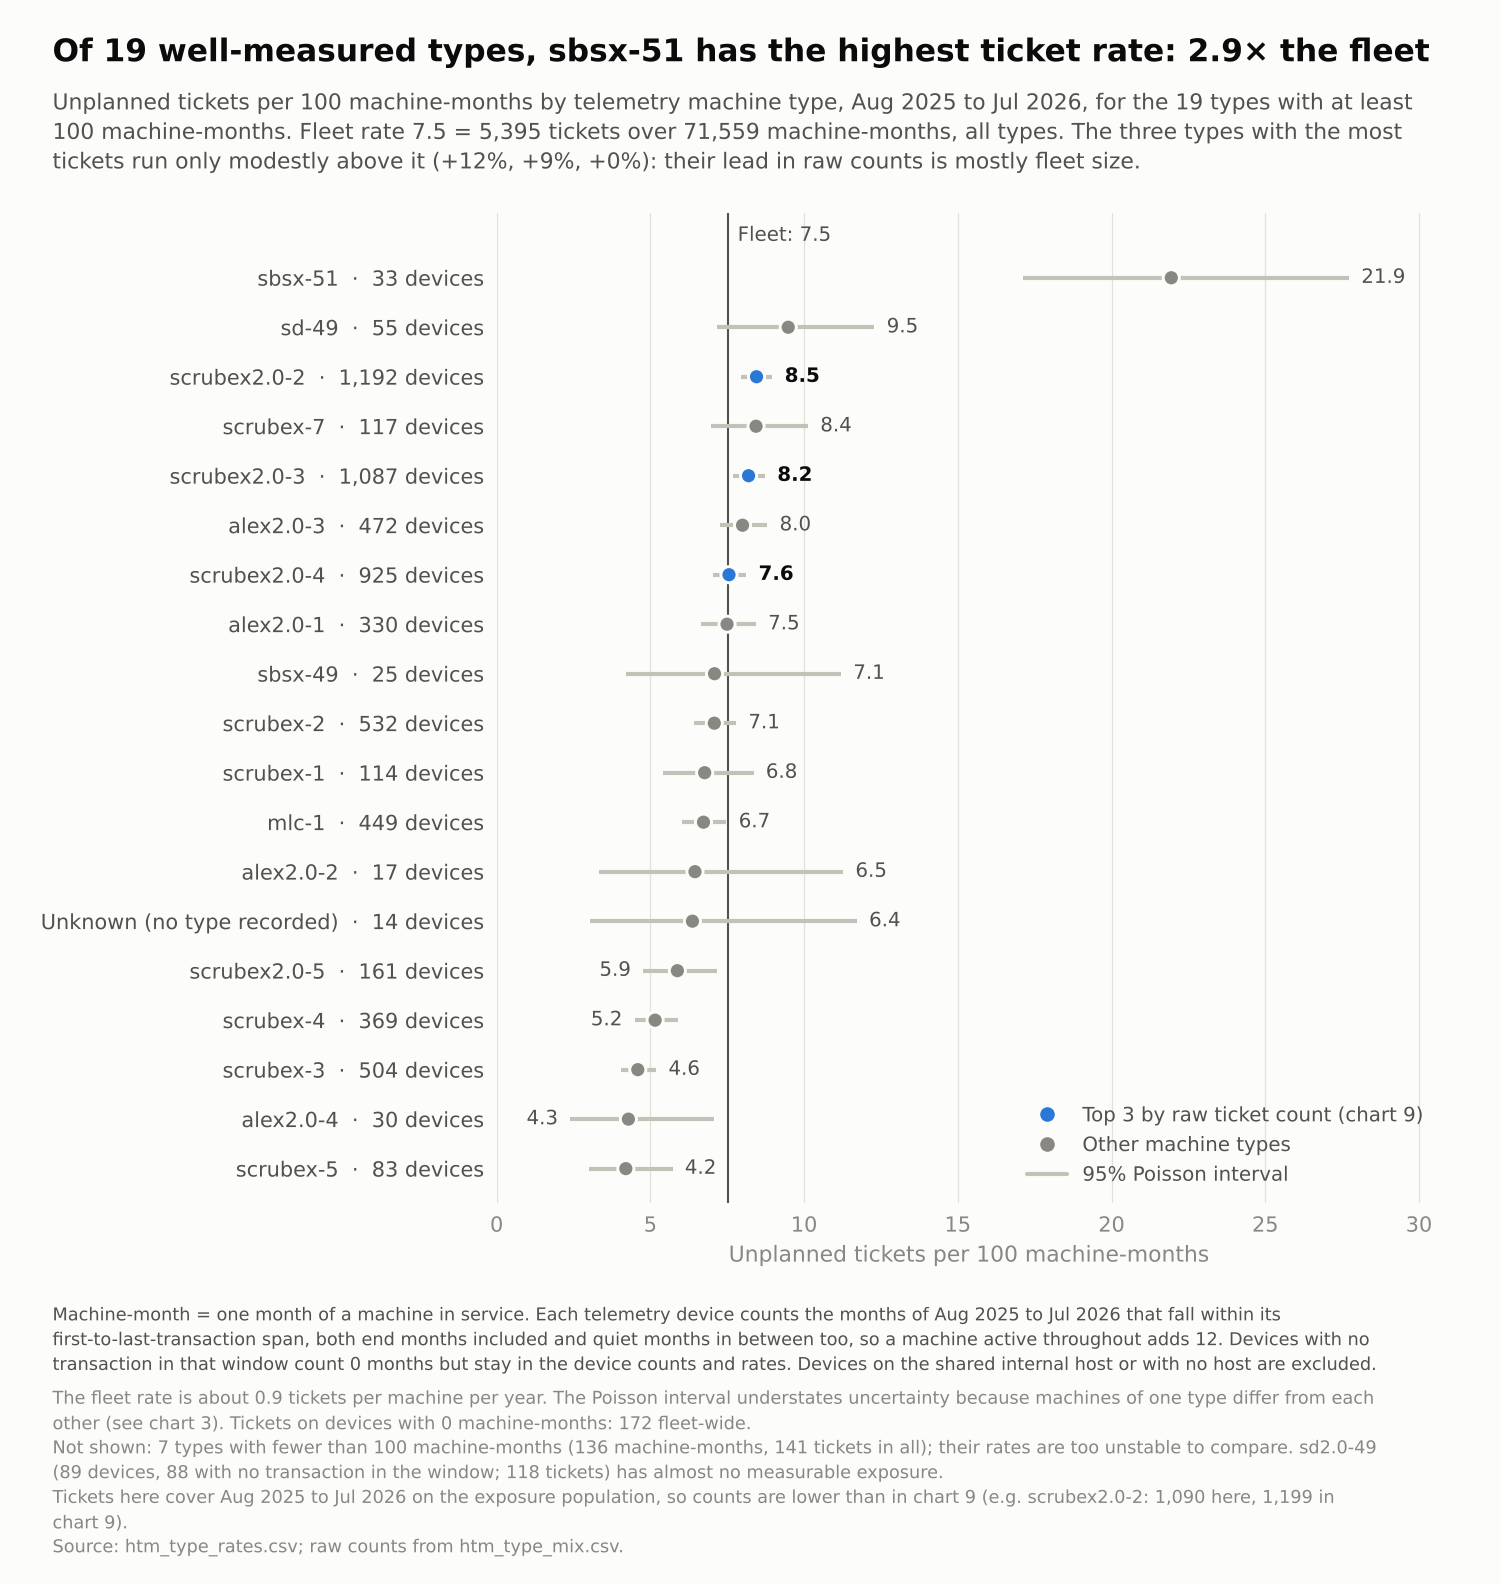
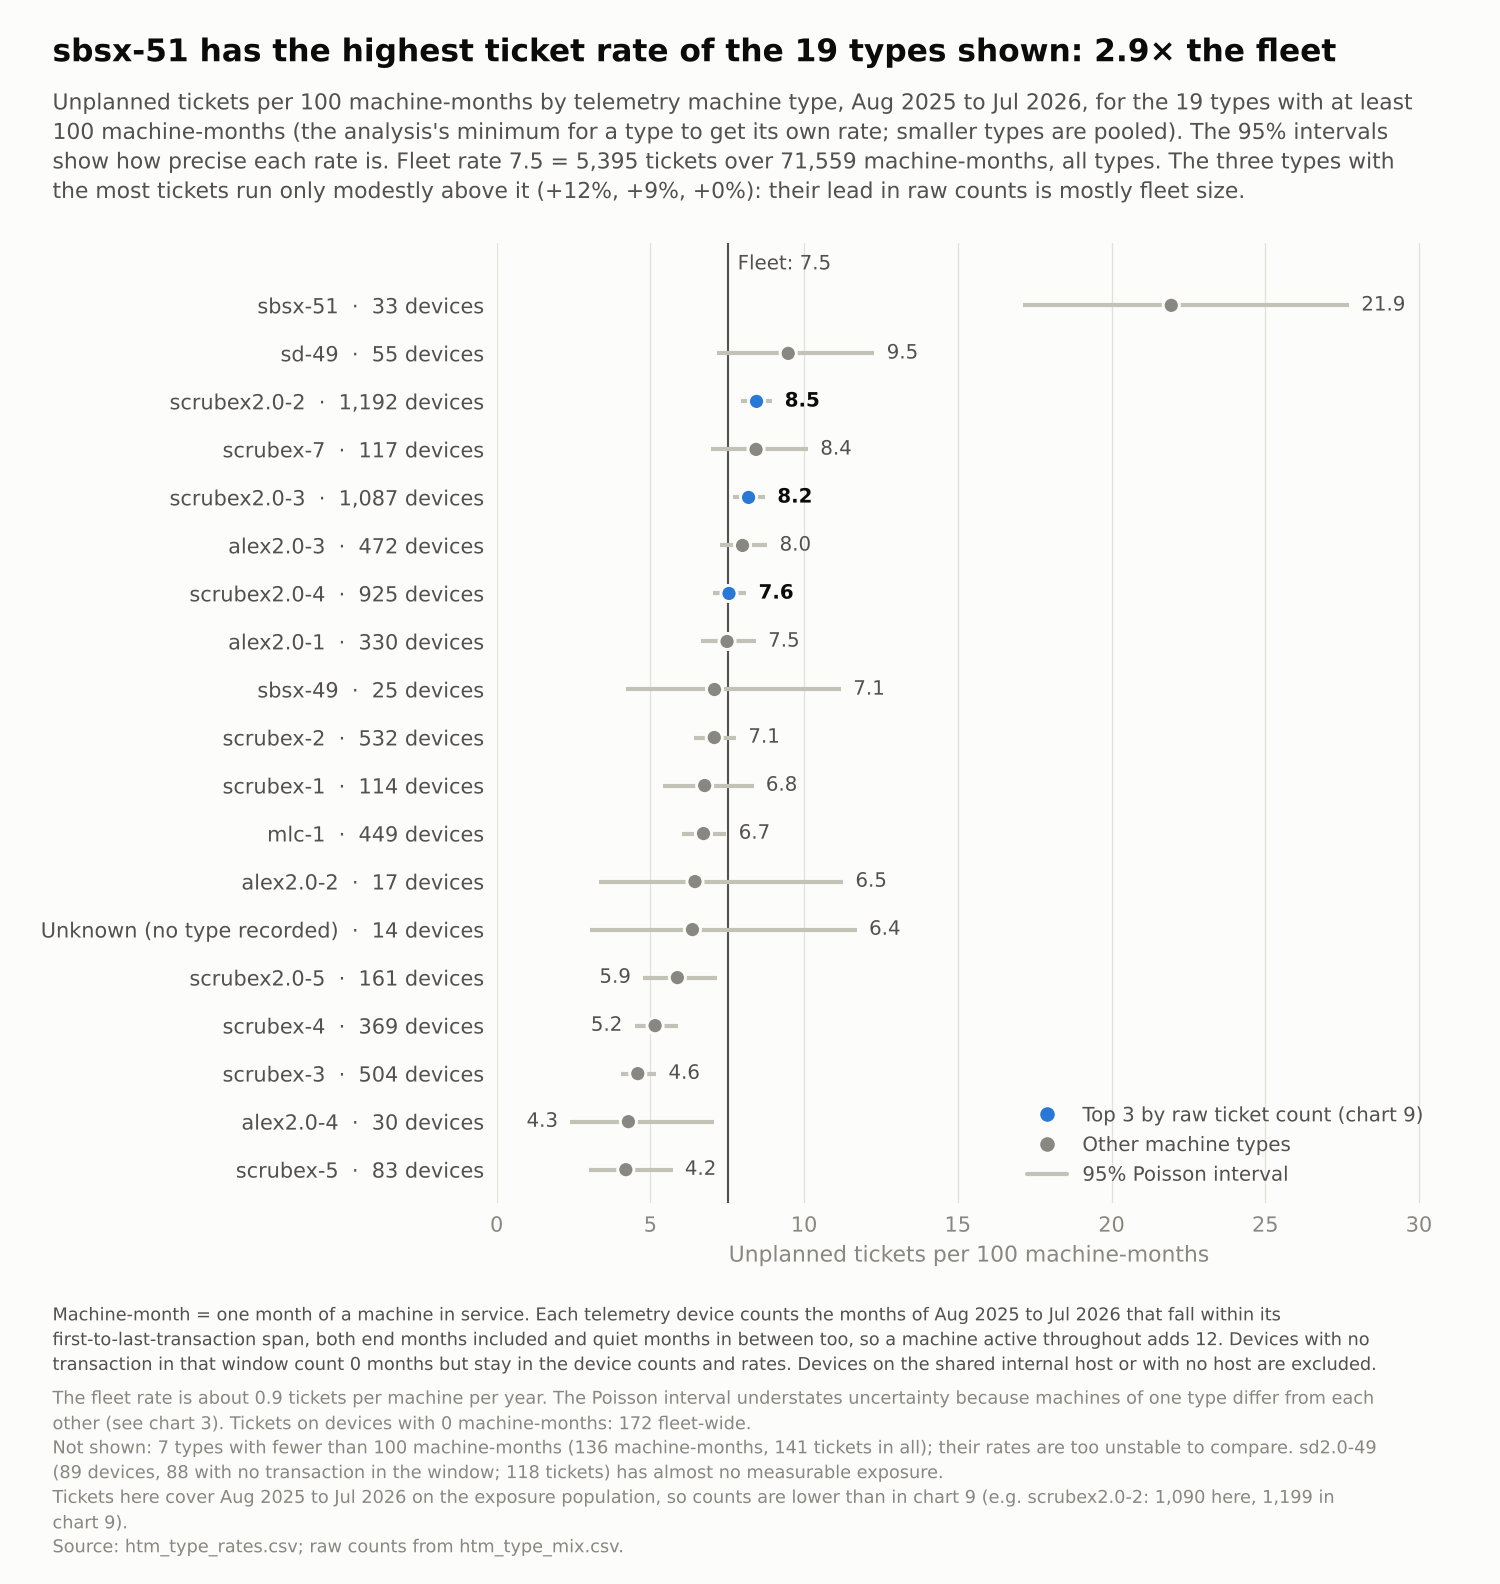
Chart 10: name the inclusion rule instead of "well-measured"
The title called the 19 plotted types "well-measured", which overstated it:
the rule is only "at least 100 machine-months" (MIN_TYPE_MONTHS, the
analysis's minimum for a type to get its own rate), and several shown types
still have wide intervals. The title now says "of the 19 types shown"; the
subtitle states the rule, why it exists, and that the 95% intervals show each
rate's precision. Also wraps one over-long line in chart 3.

Claude-Session: https://claude.ai/code/session_01TK1dMyKUfDxdMWXiP8n6X5

diff --git a/verification/plots/htm_10_ticket_rate_by_machine_type.py b/verification/plots/htm_10_ticket_rate_by_machine_type.py
@@ -105,10 +105,11 @@ def plot(out_dir=style.FIG_DIR):
     ex_raw = int(raw.loc[raw.value == ex.machine_type, 'unplanned_tickets'].iloc[0])
     style.frame(
         fig,
-        f'Of {len(d)} well-measured types, {top.machine_type} has the highest ticket rate: '
+        f'{top.machine_type} has the highest ticket rate of the {len(d)} types shown: '
         f'{top.rate / fleet:.1f}× the fleet',
         f'Unplanned tickets per 100 machine-months by telemetry machine type, {style.period_text(S)}, for the '
-        f'{len(d)} types with at least {min_months} machine-months. Fleet rate {fleet:.1f} = '
+        f'{len(d)} types with at least {min_months} machine-months (the analysis\'s minimum for a type to get its own '
+        f'rate; smaller types are pooled). The 95% intervals show how precise each rate is. Fleet rate {fleet:.1f} = '
         f'{int(r.tickets_used_for_rate.sum()):,} tickets over {int(r.exposure_months.sum()):,} machine-months, all '
         f'types. The three types with the most tickets run only modestly above it ({vs_fleet}): their lead in raw '
         f'counts is mostly fleet size.',

diff --git a/verification/plots/htm_03_observed_vs_expected.py b/verification/plots/htm_03_observed_vs_expected.py
@@ -53,8 +53,8 @@ def class_definition(S, d, untested):
                 f'(x\u00a0=\u00a00)' if hv0 else '')
     return (f'{NAME["rate_outlier_only"]} = a rate outlier that is not workload-outsized. '
             f'{NAME["high_volume_expected"]} = workload-outsized but not a significant rate outlier '
-            f'(q\u00a0≥\u00a0{S["definitions"]["q_cut"]:g}): most still log well above their expected count but miss the '
-            f'cut{zero_txt}.')
+            f'(q\u00a0≥\u00a0{S["definitions"]["q_cut"]:g}): most still log well above their expected count '
+            f'but miss the cut{zero_txt}.')
 
 
 def threshold_note(S, d):
